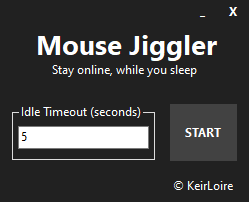
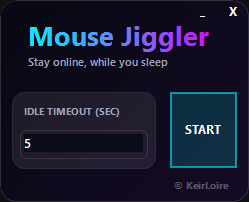
Redesign UI layout

diff --git a/MouseJiggler/Menu.cs b/MouseJiggler/Menu.cs
@@ -17,10 +17,79 @@ namespace MouseJiggler
         {
             InitializeComponent();
 
+            // Enable double buffering to prevent flickering when drawing custom backgrounds
+            this.DoubleBuffered = true;
+            this.SetStyle(ControlStyles.AllPaintingInWmPaint | ControlStyles.UserPaint | ControlStyles.OptimizedDoubleBuffer, true);
+            this.UpdateStyles();
+
             timerJiggle.Interval = 1000;
 
             InputHook.UserActivity += OnUserActivity;
             InputHook.Start();
+
+            // Apply glassmorphic control styles
+            StyleControls();
+
+            // Round the form corners dynamically
+            this.Load += (s, e) => RoundFormCorners();
+            this.SizeChanged += (s, e) => RoundFormCorners();
+        }
+
+        private void StyleControls()
+        {
+            // Title and author labels are handled in OnPaint
+            lblTitle.Visible = false;
+            lblAuthor.Visible = false;
+            label1.Visible = false;
+
+            // Style window control buttons
+            btnExit.BackColor = Color.Transparent;
+            btnExit.ForeColor = Color.White;
+            btnExit.FlatStyle = FlatStyle.Flat;
+            btnExit.FlatAppearance.BorderSize = 0;
+            btnExit.FlatAppearance.MouseDownBackColor = Color.FromArgb(120, 219, 0, 255);
+            btnExit.FlatAppearance.MouseOverBackColor = Color.FromArgb(80, 255, 0, 100);
+
+            btnMinimize.BackColor = Color.Transparent;
+            btnMinimize.ForeColor = Color.White;
+            btnMinimize.FlatStyle = FlatStyle.Flat;
+            btnMinimize.FlatAppearance.BorderSize = 0;
+            btnMinimize.FlatAppearance.MouseDownBackColor = Color.FromArgb(60, 255, 255, 255);
+            btnMinimize.FlatAppearance.MouseOverBackColor = Color.FromArgb(40, 255, 255, 255);
+
+            // Style TextBox
+            txtIdleTimeout.BackColor = Color.FromArgb(10, 12, 28);
+            txtIdleTimeout.ForeColor = Color.White;
+            txtIdleTimeout.BorderStyle = BorderStyle.None;
+            txtIdleTimeout.Font = new Font("Segoe UI Semibold", 10F, FontStyle.Bold);
+
+            // Style Start Button
+            UpdateButtonStyles();
+        }
+
+        private void UpdateButtonStyles()
+        {
+            btnStart.FlatStyle = FlatStyle.Flat;
+            btnStart.FlatAppearance.BorderSize = 1;
+
+            if (_isJiggling)
+            {
+                btnStart.Text = "STOP";
+                btnStart.BackColor = Color.FromArgb(40, 219, 0, 255); // Pink glass/glow
+                btnStart.ForeColor = Color.White;
+                btnStart.FlatAppearance.BorderColor = Color.FromArgb(150, 219, 0, 255);
+                btnStart.FlatAppearance.MouseOverBackColor = Color.FromArgb(80, 219, 0, 255);
+                btnStart.FlatAppearance.MouseDownBackColor = Color.FromArgb(120, 219, 0, 255);
+            }
+            else
+            {
+                btnStart.Text = "START";
+                btnStart.BackColor = Color.FromArgb(40, 0, 242, 254); // Cyan glass/glow
+                btnStart.ForeColor = Color.White;
+                btnStart.FlatAppearance.BorderColor = Color.FromArgb(150, 0, 242, 254);
+                btnStart.FlatAppearance.MouseOverBackColor = Color.FromArgb(80, 0, 242, 254);
+                btnStart.FlatAppearance.MouseDownBackColor = Color.FromArgb(120, 0, 242, 254);
+            }
         }
 
         private void btnStart_Click(object sender, EventArgs e)
@@ -28,17 +97,16 @@ namespace MouseJiggler
             if (_isJiggling)
             {
                 _isJiggling = false;
-                btnStart.Text = "START";
                 timerJiggle.Stop();
                 timerTimeout.Stop();
             }
             else
             {
                 _isJiggling = true;
-                btnStart.Text = "STOP";
                 timerJiggle.Start();
                 timerTimeout.Stop();
             }
+            UpdateButtonStyles();
         }
 
         private void btnExit_Click(object sender, EventArgs e)
@@ -97,19 +165,134 @@ namespace MouseJiggler
             this.WindowState = FormWindowState.Minimized;
         }
 
-        private void btnStart_MouseHover(object sender, EventArgs e)
+        protected override void OnPaintBackground(PaintEventArgs e)
         {
-            btnStart.BackColor = Color.FromArgb(42, 42, 42);
+            // Sleek dark linear gradient background matching the personal site color system
+            using (var brush = new System.Drawing.Drawing2D.LinearGradientBrush(
+                this.ClientRectangle,
+                Color.FromArgb(7, 9, 19),      // Deep dark blue #070913
+                Color.FromArgb(22, 10, 36),     // Deep dark violet #160a24
+                45F))
+            {
+                e.Graphics.FillRectangle(brush, this.ClientRectangle);
+            }
         }
 
-        private void btnMinimize_MouseHover(object sender, EventArgs e)
+        protected override void OnPaint(PaintEventArgs e)
         {
-            btnStart.BackColor = Color.FromArgb(42, 42, 42);
+            base.OnPaint(e);
+
+            var g = e.Graphics;
+            g.SmoothingMode = System.Drawing.Drawing2D.SmoothingMode.AntiAlias;
+            g.TextRenderingHint = System.Drawing.Text.TextRenderingHint.ClearTypeGridFit;
+
+            // 1. Draw Title Text with Cyan-to-Pink gradient
+            using (var titleBrush = new System.Drawing.Drawing2D.LinearGradientBrush(
+                new Rectangle(24, 20, 200, 37),
+                Color.FromArgb(0, 242, 254),     // Cyan #00f2fe
+                Color.FromArgb(219, 0, 255),     // Pink #db00ff
+                0F))
+            {
+                using (Font titleFont = new Font("Segoe UI", 20F, FontStyle.Bold))
+                {
+                    g.DrawString("Mouse Jiggler", titleFont, titleBrush, 24, 16);
+                }
+            }
+
+            // 2. Draw subtitle / tagline text
+            using (Font subtitleFont = new Font("Segoe UI Semibold", 8.5F))
+            {
+                using (Brush subtitleBrush = new SolidBrush(Color.FromArgb(163, 166, 194))) // #a3a6c2
+                {
+                    g.DrawString("Stay online, while you sleep", subtitleFont, subtitleBrush, 26, 54);
+                }
+            }
+
+            // 3. Draw glass setting card (Panel 1 container)
+            DrawGlassCard(g, 12, 92, 143, 76, 12);
+
+            // 4. Draw textbox slot background and border (inside the card)
+            using (Brush textSlotBrush = new SolidBrush(Color.FromArgb(15, 10, 12, 28)))
+            {
+                FillRoundedRectangle(g, textSlotBrush, 20, 130, 127, 28, 6);
+            }
+            using (Pen textSlotBorder = new Pen(Color.FromArgb(30, 255, 255, 255), 1F))
+            {
+                DrawRoundedRectangle(g, textSlotBorder, 20, 130, 127, 28, 6);
+            }
+
+            // 5. Draw label "IDLE TIMEOUT (SEC)" inside the settings card
+            using (Font cardLabelFont = new Font("Segoe UI", 7.5F, FontStyle.Bold))
+            {
+                using (Brush cardLabelBrush = new SolidBrush(Color.FromArgb(163, 166, 194)))
+                {
+                    g.DrawString("IDLE TIMEOUT (SEC)", cardLabelFont, cardLabelBrush, 22, 104);
+                }
+            }
+
+            // 6. Draw copyright footer text
+            using (Font footerFont = new Font("Segoe UI", 7.5F, FontStyle.Bold))
+            {
+                using (Brush footerBrush = new SolidBrush(Color.FromArgb(100, 163, 166, 194)))
+                {
+                    g.DrawString("© KeirLoire", footerFont, footerBrush, 172, 178);
+                }
+            }
+
+            // 7. Draw form outer thin glass highlight border
+            using (Pen formBorderPen = new Pen(Color.FromArgb(40, 255, 255, 255), 1F))
+            {
+                DrawRoundedRectangle(g, formBorderPen, 0, 0, this.Width - 1, this.Height - 1, 16);
+            }
         }
 
-        private void btnExit_MouseHover(object sender, EventArgs e)
+        private void DrawGlassCard(Graphics g, int x, int y, int w, int h, int r)
         {
-            btnStart.BackColor = Color.FromArgb(42, 42, 42);
+            using (Brush cardBrush = new SolidBrush(Color.FromArgb(20, 255, 255, 255)))
+            {
+                FillRoundedRectangle(g, cardBrush, x, y, w, h, r);
+            }
+            using (Pen cardPen = new Pen(Color.FromArgb(25, 255, 255, 255), 1F))
+            {
+                DrawRoundedRectangle(g, cardPen, x, y, w, h, r);
+            }
+        }
+
+        private void RoundFormCorners()
+        {
+            this.Region = null;
+            using (var path = GetRoundedRectanglePath(0, 0, this.Width, this.Height, 16))
+            {
+                this.Region = new Region(path);
+            }
+        }
+
+        private void FillRoundedRectangle(Graphics g, Brush brush, int x, int y, int width, int height, int radius)
+        {
+            using (var path = GetRoundedRectanglePath(x, y, width, height, radius))
+            {
+                g.FillPath(brush, path);
+            }
+        }
+
+        private void DrawRoundedRectangle(Graphics g, Pen pen, int x, int y, int width, int height, int radius)
+        {
+            using (var path = GetRoundedRectanglePath(x, y, width, height, radius))
+            {
+                g.DrawPath(pen, path);
+            }
+        }
+
+        private System.Drawing.Drawing2D.GraphicsPath GetRoundedRectanglePath(int x, int y, int width, int height, int radius)
+        {
+            var path = new System.Drawing.Drawing2D.GraphicsPath();
+            int diameter = radius * 2;
+            path.AddArc(x, y, diameter, diameter, 180, 90);
+            path.AddArc(x + width - diameter, y, diameter, diameter, 270, 90);
+            path.AddArc(x + width - diameter, y + height - diameter, diameter, diameter, 0, 90);
+            path.AddArc(x, y + height - diameter, diameter, diameter, 90, 90);
+            path.CloseAllFigures();
+            return path;
         }
     }
 }

diff --git a/MouseJiggler/Menu.Designer.cs b/MouseJiggler/Menu.Designer.cs
@@ -1,4 +1,4 @@
-namespace MouseJiggler
+namespace MouseJiggler
 {
     partial class frmMenu
     {
@@ -36,10 +36,8 @@
             lblAuthor = new Label();
             timerJiggle = new System.Windows.Forms.Timer(components);
             timerTimeout = new System.Windows.Forms.Timer(components);
-            grpIdleTimeout = new GroupBox();
             label1 = new Label();
             btnMinimize = new Button();
-            grpIdleTimeout.SuspendLayout();
             SuspendLayout();
             // 
             // btnStart
@@ -49,20 +47,19 @@
             btnStart.FlatStyle = FlatStyle.Flat;
             btnStart.Font = new Font("Segoe UI", 9F, FontStyle.Bold, GraphicsUnit.Point, 0);
             btnStart.ForeColor = Color.White;
-            btnStart.Location = new Point(170, 104);
+            btnStart.Location = new Point(170, 92);
             btnStart.Name = "btnStart";
-            btnStart.Size = new Size(67, 57);
+            btnStart.Size = new Size(67, 76);
             btnStart.TabIndex = 0;
             btnStart.Text = "START";
             btnStart.UseVisualStyleBackColor = false;
             btnStart.Click += btnStart_Click;
-            btnStart.MouseHover += btnStart_MouseHover;
             // 
             // txtIdleTimeout
             // 
-            txtIdleTimeout.Location = new Point(6, 22);
+            txtIdleTimeout.Location = new Point(24, 134);
             txtIdleTimeout.Name = "txtIdleTimeout";
-            txtIdleTimeout.Size = new Size(131, 23);
+            txtIdleTimeout.Size = new Size(119, 20);
             txtIdleTimeout.TabIndex = 1;
             txtIdleTimeout.Text = "5";
             txtIdleTimeout.KeyPress += txtSeconds_KeyPress;
@@ -94,7 +91,6 @@
             btnExit.Text = "X";
             btnExit.UseVisualStyleBackColor = false;
             btnExit.Click += btnExit_Click;
-            btnExit.MouseHover += btnExit_MouseHover;
             // 
             // lblAuthor
             // 
@@ -114,17 +110,6 @@
             // timerTimeout
             // 
             timerTimeout.Tick += timerTimeout_Tick;
-            // 
-            // grpIdleTimeout
-            // 
-            grpIdleTimeout.Controls.Add(txtIdleTimeout);
-            grpIdleTimeout.ForeColor = Color.White;
-            grpIdleTimeout.Location = new Point(12, 104);
-            grpIdleTimeout.Name = "grpIdleTimeout";
-            grpIdleTimeout.Size = new Size(143, 57);
-            grpIdleTimeout.TabIndex = 9;
-            grpIdleTimeout.TabStop = false;
-            grpIdleTimeout.Text = "Idle Timeout (seconds)";
             // 
             // label1
             // 
@@ -153,7 +138,6 @@
             btnMinimize.TextAlign = ContentAlignment.TopCenter;
             btnMinimize.UseVisualStyleBackColor = false;
             btnMinimize.Click += btnMinimize_Click;
-            btnMinimize.MouseHover += btnMinimize_MouseHover;
             // 
             // frmMenu
             // 
@@ -165,7 +149,7 @@
             ControlBox = false;
             Controls.Add(btnMinimize);
             Controls.Add(label1);
-            Controls.Add(grpIdleTimeout);
+            Controls.Add(txtIdleTimeout);
             Controls.Add(lblAuthor);
             Controls.Add(btnExit);
             Controls.Add(lblTitle);
@@ -176,8 +160,6 @@
             StartPosition = FormStartPosition.CenterScreen;
             Text = "Mouse Jiggler";
             MouseDown += Drag_MouseDown;
-            grpIdleTimeout.ResumeLayout(false);
-            grpIdleTimeout.PerformLayout();
             ResumeLayout(false);
             PerformLayout();
         }
@@ -191,7 +173,6 @@
         private Label lblAuthor;
         private System.Windows.Forms.Timer timerJiggle;
         private System.Windows.Forms.Timer timerTimeout;
-        private GroupBox grpIdleTimeout;
         private Label label1;
         private Button btnMinimize;
     }